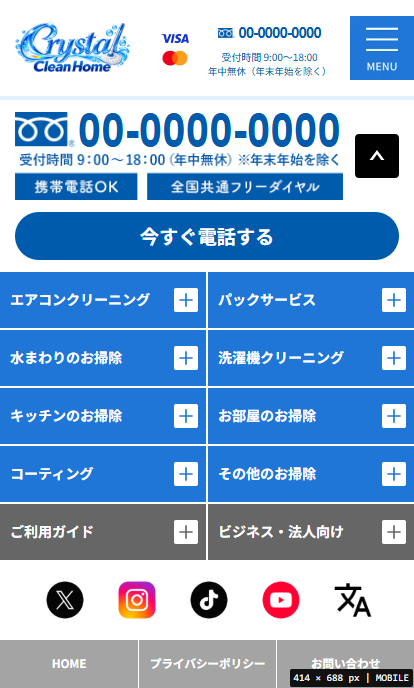
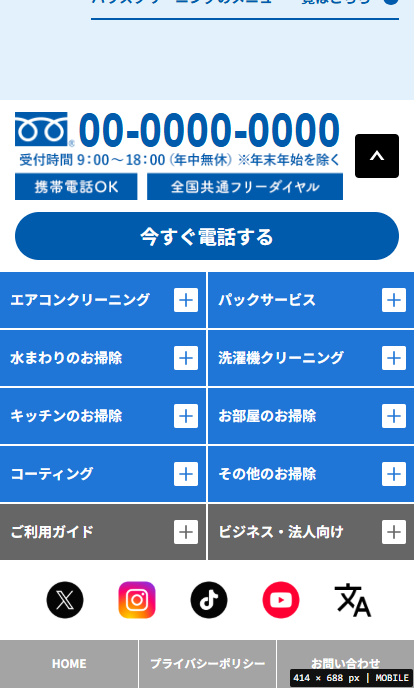
Finish hiding mobile header when the compact footer fits in view

Changed region(s): [[0.0, 0.0, 1.0, 0.1526]]

diff --git a/source/site/assets/js/aircon-header.js b/source/site/assets/js/aircon-header.js
@@ -253,7 +253,12 @@
       return;
     }
     const headerHeight = header.getBoundingClientRect().height;
-    const overlap = Math.min(headerHeight + 1, Math.max(0, headerHeight - mobileFooterPhone.getBoundingClientRect().top));
+    const phoneTop = mobileFooterPhone.getBoundingClientRect().top;
+    // A compact closed footer can fit before its phone reaches the header.
+    // Finish hiding the header without moving or resizing the page.
+    const footerFullyVisible = phoneTop >= 0 && mobileFooter.getBoundingClientRect().bottom <= window.innerHeight + 1;
+    const overlap = footerFullyVisible ? headerHeight + 1 :
+      Math.min(headerHeight + 1, Math.max(0, headerHeight - phoneTop));
     header.style.setProperty('--footer-push', `${overlap}px`);
     header.classList.toggle('is-footer-pushed', overlap > 0);
   }

diff --git a/source/site/house-cleaning/aircon/index.html b/source/site/house-cleaning/aircon/index.html
@@ -44,7 +44,7 @@
 <link rel="stylesheet" href="/assets/css/reasons-navy.css?v=2026100211">
 <link rel="stylesheet" href="/assets/css/aircon-voice-bubbles.css?v=2026100236">
 <link rel="stylesheet" href="/assets/css/aircon-header.css?v=2026100310">
-<script src="/assets/js/aircon-header.js?v=2026100312" defer></script>
+<script src="/assets/js/aircon-header.js?v=2026100313" defer></script>
 <link rel="stylesheet" href="/assets/css/aircon-hero.css?v=2026100302">
 <link rel="stylesheet" href="/assets/css/aircon-layout.css?v=2026100313">
 <script src="/assets/js/aircon-comparison.js?v=2026100250" defer></script>

diff --git a/tools/build_service_pages.py b/tools/build_service_pages.py
@@ -798,7 +798,7 @@ def render(route, page, catalogue, copy):
             output = output.replace('</head>', bubble_css + '\n</head>', 1)
         output = re.sub(r'/assets/js/common\.js(?:\?v=\d+)?', '/assets/js/common.js?v=2026100252', output)
         header_css = '<link rel="stylesheet" href="/assets/css/aircon-header.css?v=2026100310">'
-        header_js = '<script src="/assets/js/aircon-header.js?v=2026100312" defer></script>'
+        header_js = '<script src="/assets/js/aircon-header.js?v=2026100313" defer></script>'
         if '/assets/css/aircon-header.css' in output:
             output = re.sub(r'<link rel="stylesheet" href="/assets/css/aircon-header\.css\?v=\d+">',
                             header_css, output)
